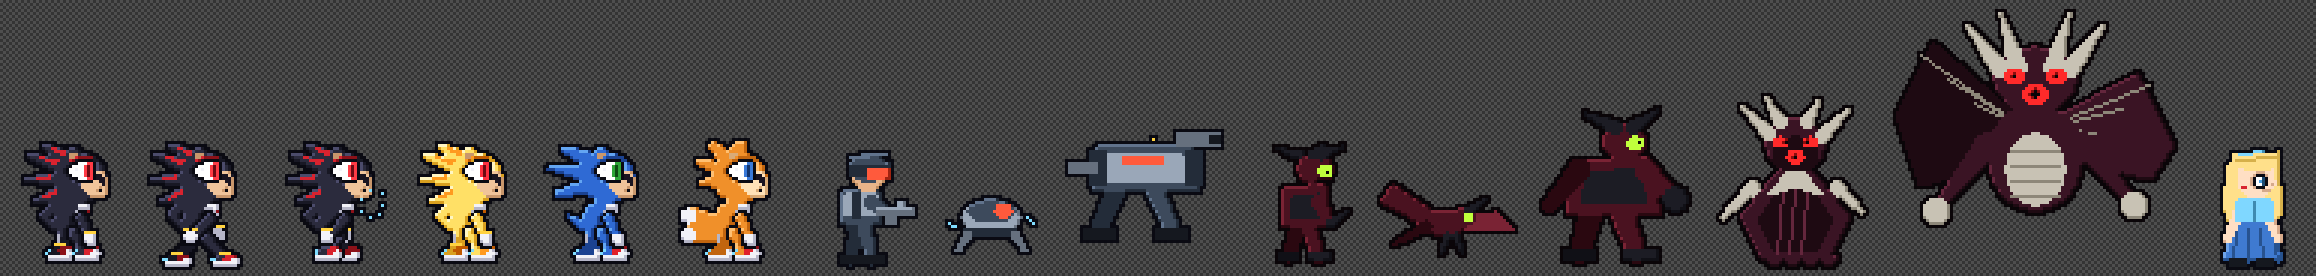
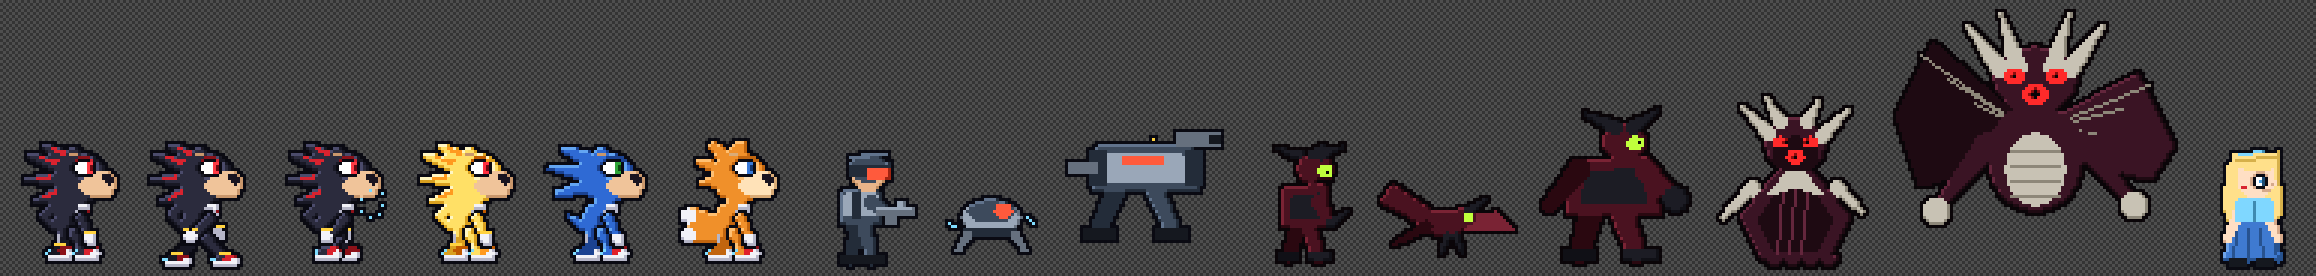
Rebuild the face around the muzzle, drop the mouth, shrink the eye
The head was still built the wrong way round: a small snout stuck on a
face, with a big eye dominating it. In the source design the muzzle is
the large feature - a rounded mass filling the lower front of the head
and bulging past the skull - and the eye is a compact oval seated on its
upper-back edge.

- MUZZLE stamp reshaped to 13x9: a broad rounded mass carried forward so
  it clears the skull by about 3px, with the nose sitting on its
  upper-front as a bump in the silhouette and tan wrapping it on the
  right and below so it reads as a nose, not as outline
- the mouth is gone. The source sprites only draw one for specific
  expressions; idle and walk frames have none.
- EYE stamp cut from 10x8 to 8x6 - a plain oval with the iris pushed
  forward and a dark pupil inside it, instead of the oversized wedge
- eye seated so its lower front corner overlaps the muzzle, which is
  what ties the two parts into one face
- Shadow's red rim follows the lid and wraps both corners of the eye

Applies to Shadow, Super Shadow, Sonic and Tails, which all share the
head code, and to their dialogue portraits.

All 29 sheets regenerate with every frame's outline inside its cell;
tests/run.js 23/23.

Claude-Session: https://claude.ai/code/session_01JRk7uPVPp8Hkop27vEf51e

Changed region(s): [[0.0, 0.5797, 0.2798, 0.7246], [0.3109, 0.5797, 0.342, 0.7246]]

diff --git a/js/sprite_data.js b/js/sprite_data.js
@@ -11,9 +11,9 @@ SH.SpriteData = {
[12 lines of base64/hex data omitted]
@@ -28,9 +28,9 @@ SH.SpriteData = {
[12 lines of base64/hex data omitted]
 };

diff --git a/tools/chars.py b/tools/chars.py
@@ -162,50 +162,56 @@ def _twin_tails(cv, x, y, phase):
 #   O outline   S sclera   I iris   e pupil   W glint
 #   M muzzle    m shade    N nose   n nose highlight
 # --------------------------------------------------------------------------
+# In the source style the muzzle is a big tan ball pushed forward off the
+# skull, the eye is a compact oval sitting ON its upper-back edge, and the
+# only mark on the muzzle is the nose - idle sprites carry no mouth at all.
+#   O outline   S sclera   I iris   e pupil
+#   M muzzle    m shade    N nose
 EYE = [
-    '....OOOOO.',
-    '..OOSSSIIO',
-    '.OSSSSIeIO',
-    'OSSWSSIeIO',
-    'OSSSSSIeIO',
-    '.OSSSSIeIO',
-    '..OOSSSIIO',
-    '....OOOOO.',
+    '..OOOOO.',
+    '.OSSSIIO',
+    'OSSSSIeO',
+    'OSSSSIeO',
+    '.OSSSIIO',
+    '..OOOOO.',
 ]
 
 MUZZLE = [
-    '....MMMM..',
-    '..MMMNNM..',
-    '.MMMMNNNM.',
-    'MMMMMMNNM.',
-    'MMMMMMMNM.',
-    'MMMMMMMMM.',
-    '.MMMMMOMM.',
-    '..MMMMMMM.',
-    '...mMMMM..',
+    '......MMMMM..',
+    '....MMMMNNNM.',
+    '..MMMMMMNNNNM',
+    '.MMMMMMMMNNNM',
+    'MMMMMMMMMMNMM',
+    'MMMMMMMMMMMMM',
+    '.MMMMMMMMMMM.',
+    '..MMMMMMMMMM.',
+    '....mMMMMMm..',
 ]
 
 
 def _head(cv, hx, hy, pal_eye='E', ear=True, stripe_eye=False,
-          eye_dx=-3.8, eye_dy=-6.2, muzzle_dx=1.4, muzzle_dy=-2.0):
-    """Side-view head in the Advance/Battle build.
+          eye_dx=-2.4, eye_dy=-6.0, muzzle_dx=0.0, muzzle_dy=-2.0):
+    """Side-view head.
 
-    Order matters: skull, then ear, then the snout, and the eye last so it
-    overlaps the top of the snout the way the source style does.
+    The likeness lives in the relationship between two parts: a large
+    rounded muzzle carried forward off the skull, and a compact oval eye
+    seated on its upper-back edge so the two touch.  No mouth - the
+    source sprites only draw one for specific expressions.
     """
     cv.ellipse(hx, hy, 9.0, 8.4, 'F')                        # skull
 
     if ear:                                                  # ear, upper back
-        cv.poly([(hx - 5.0, hy - 5.6), (hx - 2.2, hy - 10.6), (hx + 2.4, hy - 6.0)], 'F')
-        cv.poly([(hx - 2.4, hy - 6.8), (hx - 1.8, hy - 8.6), (hx - 0.2, hy - 7.0)], 'm')
+        cv.poly([(hx - 4.8, hy - 5.8), (hx - 2.4, hy - 10.6), (hx + 1.8, hy - 6.4)], 'F')
+        cv.poly([(hx - 2.6, hy - 7.0), (hx - 2.2, hy - 8.4), (hx - 1.0, hy - 7.2)], 'm')
 
     cv.stamp(MUZZLE, hx + muzzle_dx, hy + muzzle_dy)
     cv.stamp(EYE, hx + eye_dx, hy + eye_dy, {'I': pal_eye})
 
     if stripe_eye:                                           # red rim on the lid
         ex, ey = hx + eye_dx, hy + eye_dy
-        cv.line(ex + 3, ey - 1, ex + 8, ey - 1, 'R')
-        cv.line(ex + 1, ey, ex + 2, ey, 'R')
+        cv.line(ex + 2, ey - 1, ex + 5, ey - 1, 'R')
+        cv.px(ex + 1, ey + 0, 'R')
+        cv.px(ex + 6, ey + 0, 'R')
 
 
 def _finish(cv):

diff --git a/docs/SPRITE_REFERENCE.md b/docs/SPRITE_REFERENCE.md
@@ -24,9 +24,14 @@
 
 * **가시** — 굵고 완만하게 뒤로 쓸린 사다리꼴 4개(위) + 등가시 1개. 각도로 벌려 사이에 1px
   틈이 남게 한다. 붉은 줄무늬는 각 가시의 윗면을 따라 1px로 얇게 흐른다.
-* **머즐** — 두개골 밖으로 2px 정도만 나오는 짧은 주둥이. 코는 살색에 완전히 둘러싸이도록
-  배치해야 실루엣 외곽선이 아니라 코로 읽힌다. 입은 앞쪽 아래 1px.
-* **눈** — 뒤쪽 모서리가 높고 뾰족한 쐐기꼴, 두꺼운 검은 눈꺼풀, 앞쪽으로 밀린 홍채 + 동공 + 반사광.
+* **머즐** — 짧은 주둥이가 아니라 **얼굴 앞아래를 크게 차지하는 둥근 살색 덩어리**이며,
+  두개골 원 밖으로 3px 정도 앞으로 불거진다. 코는 머즐 앞위쪽에 얹혀 실루엣에 작은 혹을 만들되
+  오른쪽·아래로 살색이 둘러싸야 외곽선이 아니라 코로 읽힌다.
+* **입은 그리지 않는다.** 원본 소닉 계열 스프라이트는 특정 표정에서만 입을 넣고,
+  기본 대기/이동 프레임에는 입이 없다.
+* **눈** — 작고 단정한 타원(8×6). 크게 그리면 얼굴이 눈으로 꽉 차서 원본과 멀어진다.
+  아래 앞모서리가 머즐 위에 걸치도록 앉히고, 홍채는 앞쪽으로 밀어 동공을 그 안에 둔다.
+  섀도우는 눈꺼풀 위를 따라 붉은 테두리가 지난다.
 
 ## 왜 실제 게임 스프라이트를 커밋하지 않았는가
 

diff --git a/docs/GAME_DESIGN.md b/docs/GAME_DESIGN.md
@@ -171,6 +171,8 @@ tools/gen_sprites.py  전부 렌더 → PNG + base64 인라인 JS
 
 * **얼굴** — 두상이 18px 남짓이라 타원은 눈을 동그라미로 뭉개고 머즐을 얼굴에 녹인다.
   눈·머즐·사람 눈은 ASCII 픽셀 맵(`EYE`, `MUZZLE`, `HUMAN_EYE`)으로 직접 찍는다.
+  구성은 원본 디자인 그대로: 크고 둥근 머즐이 앞으로 불거지고, 작은 타원 눈이 그 위에 걸터앉고,
+  코는 머즐 앞위쪽 혹으로, 입은 없다.
 * **가시** — 가는 선이면 바늘 다발, 밑동이 겹치면 한 덩어리 후드가 된다.
   각 가시를 `(밑동, 각도, 길이, 밑동 두께, 끝 두께)` 로 정의해 부채꼴로 펼친 사다리꼴로 그린다.
 
